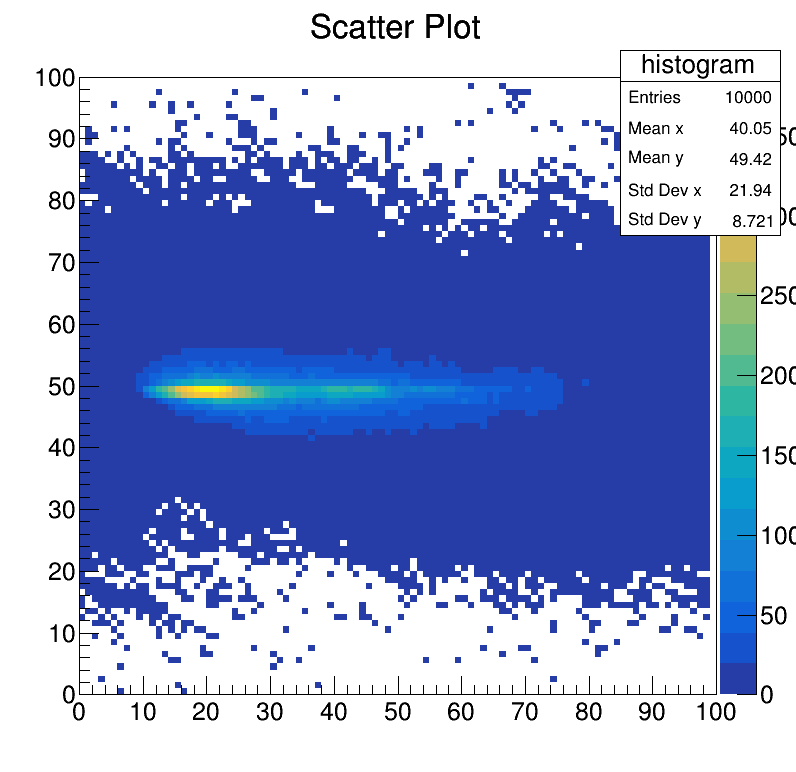
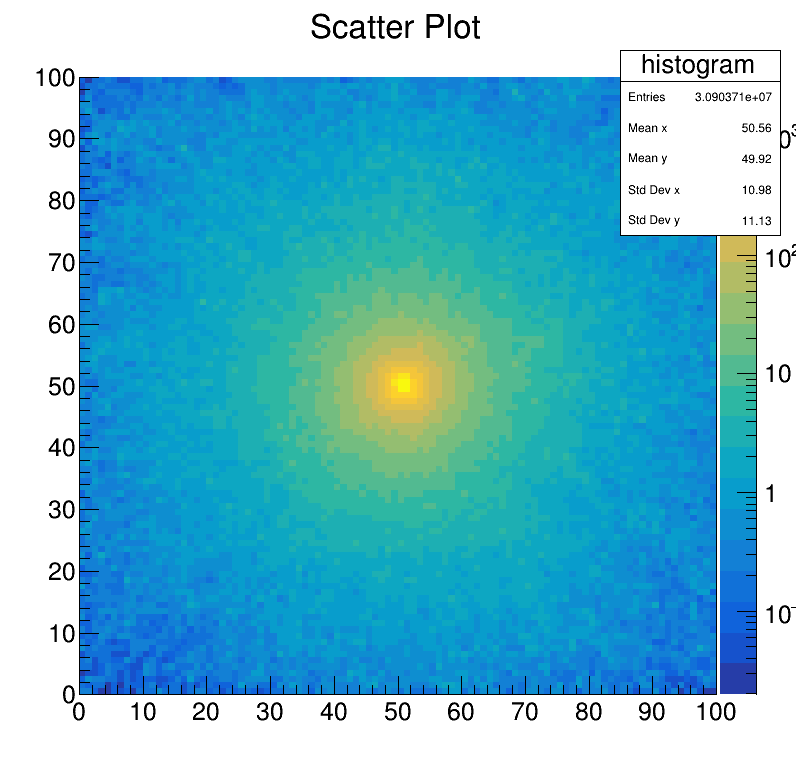
Update validation Edep tree

diff --git a/src/Edep_energyPlot.C b/src/Edep_energyPlot.C
@@ -28,7 +28,7 @@
 using namespace std;
 
 static int max_event = 100;
-double sum_energy[10000] = {0.};
+TH2F *histogram = new TH2F("histogram", "Scatter Plot", 100, 0, 100, 100, 0, 100);
 
 // Declare function
 void plotEnergy(const char* filename);
@@ -36,7 +36,6 @@ void plotEnergy(const char* filename);
 template <typename T>
 std::map<int, vector<UInt_t> > map_indices(T event, int entries);
 
-void scatterPlot(double *data, int dataSize);
 ////////////////////////////////////////////////////////////////////////////////////////////////////////
 void plotEnergy(const char* filename) {
  
@@ -70,17 +69,32 @@ void plotEnergy(const char* filename) {
 			
 			      event->GetEntry(k);
 
-            //sum energies depending on the cell idx.
+            //fill histogram with energies 
             //Note: it is necessary to define the index within the range [0,9999] (xy plane projection)		
-			      layer_cell_idx =  int(event->cell_no) % 9999;
-			      sum_energy[layer_cell_idx] += event->edep;
+			      layer_cell_idx =  int(event->cell_no) % 10000;
+            
+            int x = layer_cell_idx % 100; 
+            int y = int(99 - std::floor(layer_cell_idx/100.)); 
+            double E = (event->edep)/max_event; //average absorbed energy
+
+			      histogram->Fill(x, y, E);
         	}	  
     	} // end of for loop
 
 	    ievent++;
   	} while (ievent < max_event);
 
-    scatterPlot(sum_energy, 10000);
+    TCanvas *canvas = new TCanvas("canvas", "Scatter Plot", 800, 800);
+
+    histogram->Draw("COLZ");
+    histogram->SetMarkerStyle(21);
+    histogram->SetMarkerSize(2);
+    histogram->SetMarkerColor(kRed);
+    
+    canvas->SetLogz();
+    canvas->Update();
+    canvas->Draw();
+    canvas->SaveAs("Edep_energyDistribution.png");
 
   	// Stop measuring time
   	auto end_time = std::chrono::high_resolution_clock::now();
@@ -114,28 +128,6 @@ std::map<int, vector<UInt_t> > map_indices(T event, int entries) {
   map_idx[prev_id].push_back(entries-1);
   
   return(map_idx);
-}
-
-void scatterPlot(double *data, int dataSize) {
-
-    TCanvas *canvas = new TCanvas("canvas", "Scatter Plot", 800, 800);
-    TH2F *histogram = new TH2F("histogram", "Scatter Plot", 100, 0, 100, 100, 0, 100);
-
-    for (int i = 0; i < dataSize; ++i) {
-        int x = i % 99; 
-        int y = 99 - std::floor(i/99); 
-        int color = data[i]/max_event; //average absorbed energy
-
-        histogram->SetBinContent(x + 1, y + 1, color);
-    }
-
-    histogram->SetMarkerStyle(21);
-    histogram->SetMarkerSize(2);
-
-    histogram->Draw("COLZ");
-    canvas->SaveAs("Edep_energyDistribution.png");
-    std::cout << "Result of the analysis has been saved to Edep_energyDistribution.png" << std::endl;
-
 }
 
 ////////////////////////////////////////////////////////////////////////////////////////////////////////////////////
